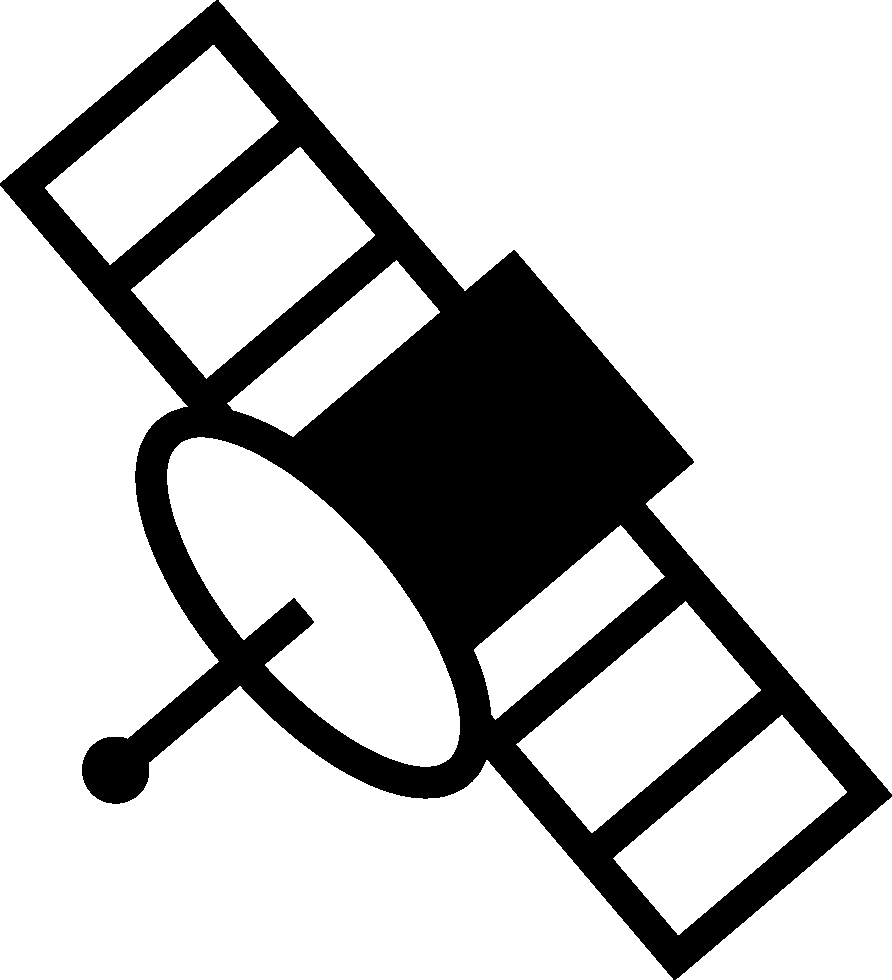
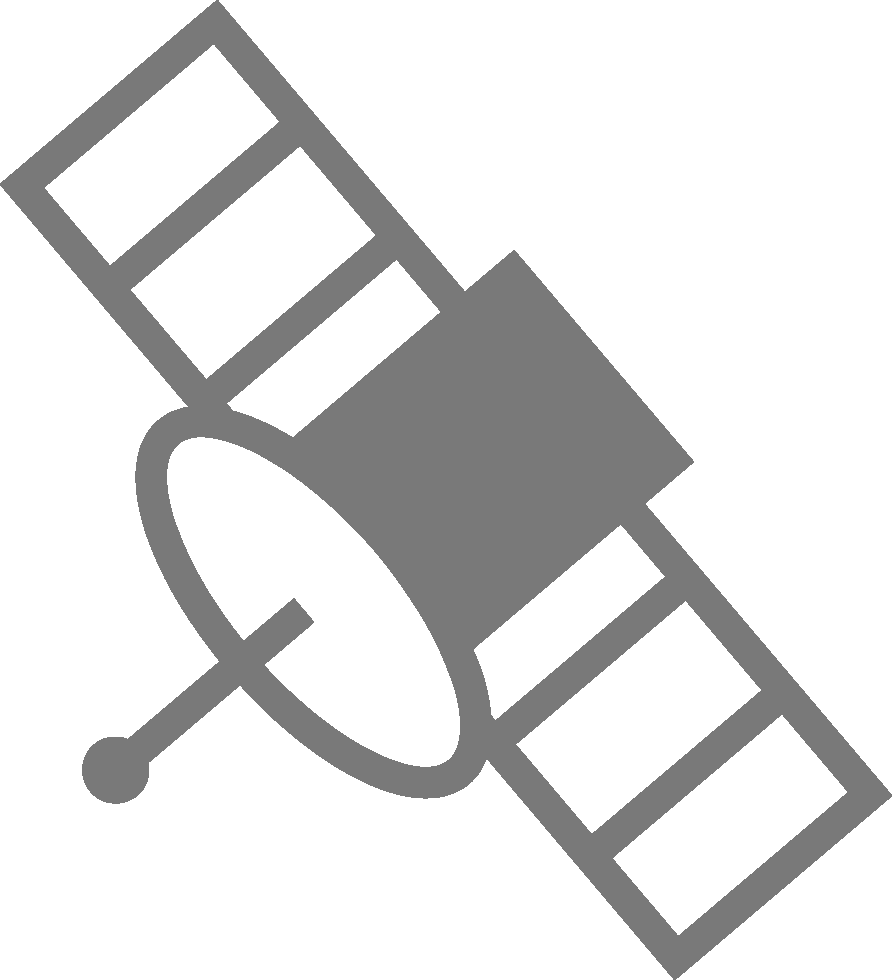
Assignment 4 finished

Changed region(s): [[0.0, 0.0, 0.9989, 1.0]]

diff --git a/Code Practice 4/css/style.css b/Code Practice 4/css/style.css
@@ -1,12 +1,3 @@
-/*div {
-    color: teal;
-    background-color: powderblue;
-    border: black 10px solid;
-    box-sizing: border-box;
-    padding: 3rem;
-    margin: 30px;
-}*/
-
 h1#title {
     color: white;
     padding: 30px;
@@ -15,20 +6,8 @@ h1#title {
 }
 
 #sky {
-    background: linear-gradient(rgba(0,0,0,1) 0%, rgba(94,40,191,1) 70%, rgba(182,141,255,1) 100%);
+    background: linear-gradient(rgba(0,0,0,1) 0%, rgb(98, 41, 204) 100%);
     width: 100%;
-}
-
-#cliff {
-    background: linear-gradient(rgba(2,0,36,1) 0%, rgba(39,33,28,1) 59%, rgba(105,91,54,1) 100%);
-    border-right: dimgray 5px solid;
-    width: 50%;
-}
-
-#ocean {
-    background: linear-gradient(rgba(2,0,36,1) 0%, rgba(0,141,180,1) 100%);
-    width: 50%;
-    float:left;
 }
 
 /* Default to taking up the full space in a column */
@@ -38,21 +17,57 @@ img {
     float: right;
 }
 
-img.i2 {
-    position: absolute;
-    padding: 20px 0px 0px 20px;
-    width: 100px;
-    height: 100px;
-}
-
-img.ufo_overlay {
+img#ufo_overlay {
     position: absolute;
     width: 67.5px;
     height: auto;
 }
 
-img.ufo {
+img#ufo {
     padding: 40px 0;
+}
+
+img#satellite_dish {
+    height: 360px;
+    width: auto;
+}
+
+img#forest1_overlay {
+    position: absolute;
+    padding-top: 80px;
+    height: 280px;
+    width: auto;
+}
+
+img#forest2_overlay {
+    position: absolute;
+    padding: 160px 0 0 90px;
+    height: 200px;
+    width: auto;
+}
+
+img#tent {
+    padding-top: 270px;
+    height: 90px;
+    width: auto;
+}
+
+img#campfire {
+    padding-top: 320px;
+    height: 40px;
+    width: auto;
+}
+
+img#picnic_table {
+    padding: 325px 0 0 20px;
+    height: 35px;
+    width: auto;
+}
+
+img#forest3 {
+    padding-top: 200px;
+    height: 160px;
+    width: auto;
 }
 
 /* Quick options for smaller space */
@@ -76,21 +91,8 @@ img.p70 {
     height: 70%;
 }
 
-img.p200 {
-    width: 200%;
-    height: 200%;
-}
-
-.aright {
-    float: right;
-}
-
 img.flipped {
     transform: scaleX(-1);
-}
-
-.rotate270 {
-    transform: rotate(270deg);
 }
 
 .spacer {

diff --git a/Code Practice 4/p4_index.html b/Code Practice 4/p4_index.html
@@ -7,6 +7,7 @@
         <link rel="stylesheet" type="text/css" href="css/normalize.css">
         <link rel="stylesheet" type="text/css" href="css/grid.css">
         <link rel="stylesheet" type="text/css" href="css/style.css">
+		<!-- Icons sourced from: https://www.onlinewebfonts.com/icon/ -->
 	</head>
 
 	<body>
@@ -30,7 +31,7 @@
 				</div>
 				<div class="row">
 					<div class="col-3">
-						<img class="p20 flipped" src="images/Satellite2.png">
+						<img class="p20 flipped" src="images/Satellite.png">
 					</div>
 					<div class="col-8">
 						<img class="p5" src="images/Twinkle.png">
@@ -62,15 +63,39 @@
 						<img class="p70" src="images/Cloud3.png">
 					</div>
 					<div class="col-1">
-						<img class="ufo" src="images/UFO.png">
-						<img class="" src="images/Cow.png">
-						<img class="ufo_overlay" src="images/Cloud2.png">
+						<a href="https://www.youtube.com/watch?v=hAAlDoAtV7Y">
+							<img id="ufo" class="overlay" src="images/UFO.png">
+						</a>
+						<img src="images/Cow.png">
+						<img id="ufo_overlay" src="images/Cloud2.png">
 					</div>
 					<div class="col-3">
 						<img class="p20" src="images/Cloud1.png">
 					</div>
 				</div>
 				<div class="smallspacer"></div>
+				<div class="row lastrow">
+					<div class="col-4">
+						<img id="satellite_dish" src="images/SatelliteDish.png">
+						<img id="forest1_overlay" src="images/Forest.png">
+						<img id="forest2_overlay" src="images/Forest2.png">
+					</div>
+					<div class="col-2">
+						<img id="tent" src="images/Tent.png">
+					</div>
+					<div class="col-1">
+						<img id="campfire" src="images/Campfire.png">
+					</div>
+					<div class="col-1">
+						<img id="picnic_table" src="images/PicnicTable.png">
+					</div>
+					<div class="col-2">
+						<img id="forest3" src="images/Forest.png">
+					</div>
+					<div class="col-2">
+						<img id="forest3" src="images/Forest2.png">
+					</div>
+				</div>
 			</section>
 		</section>
 	</body>	

diff --git a/Code Practice 4/css/grid.css b/Code Practice 4/css/grid.css
@@ -13,6 +13,10 @@
     clear: both;
 }
 
+.lastrow {
+    margin-bottom: 0;
+}
+
 .row:before,
 .row:after {
     content: " ";
